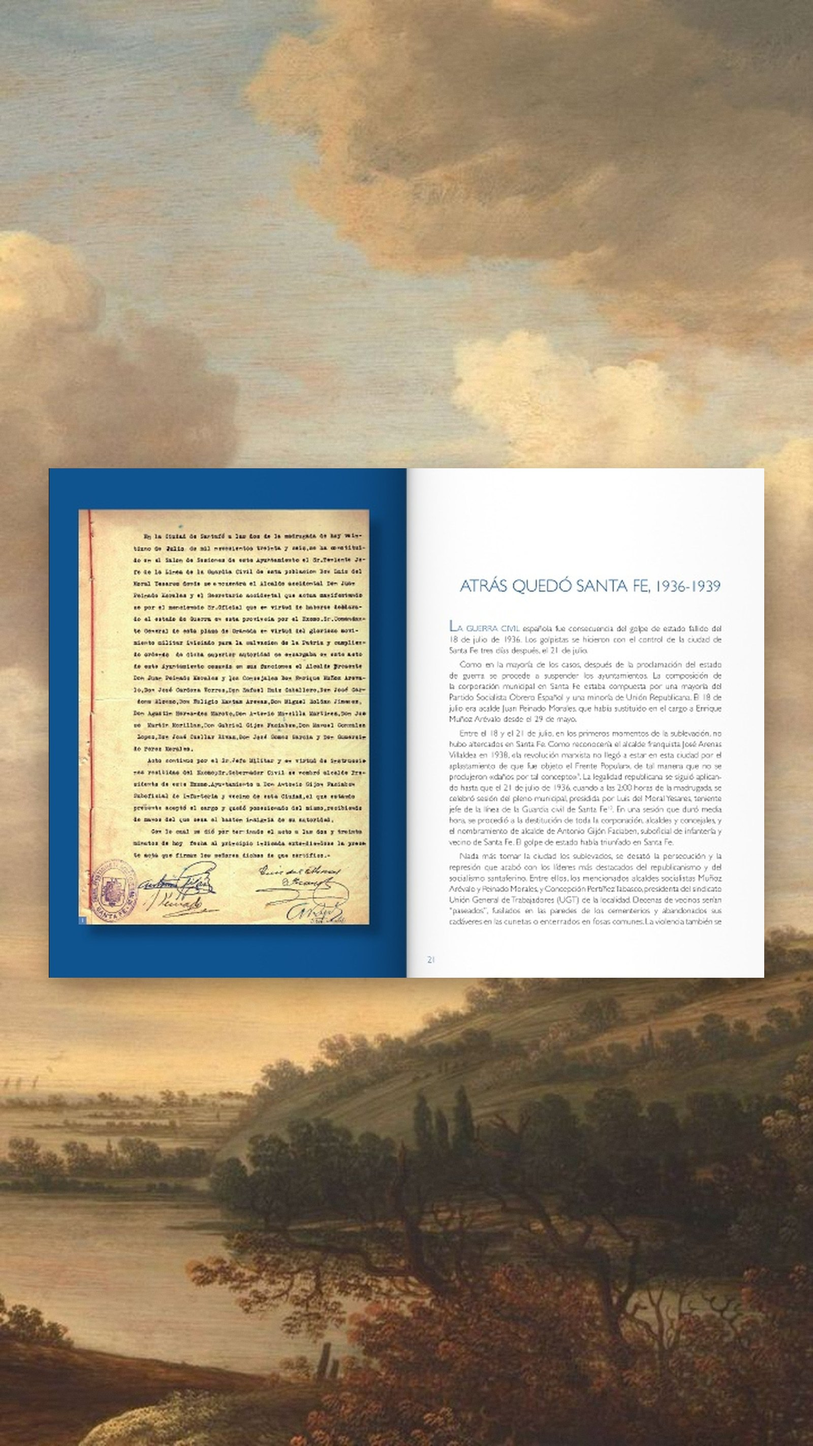
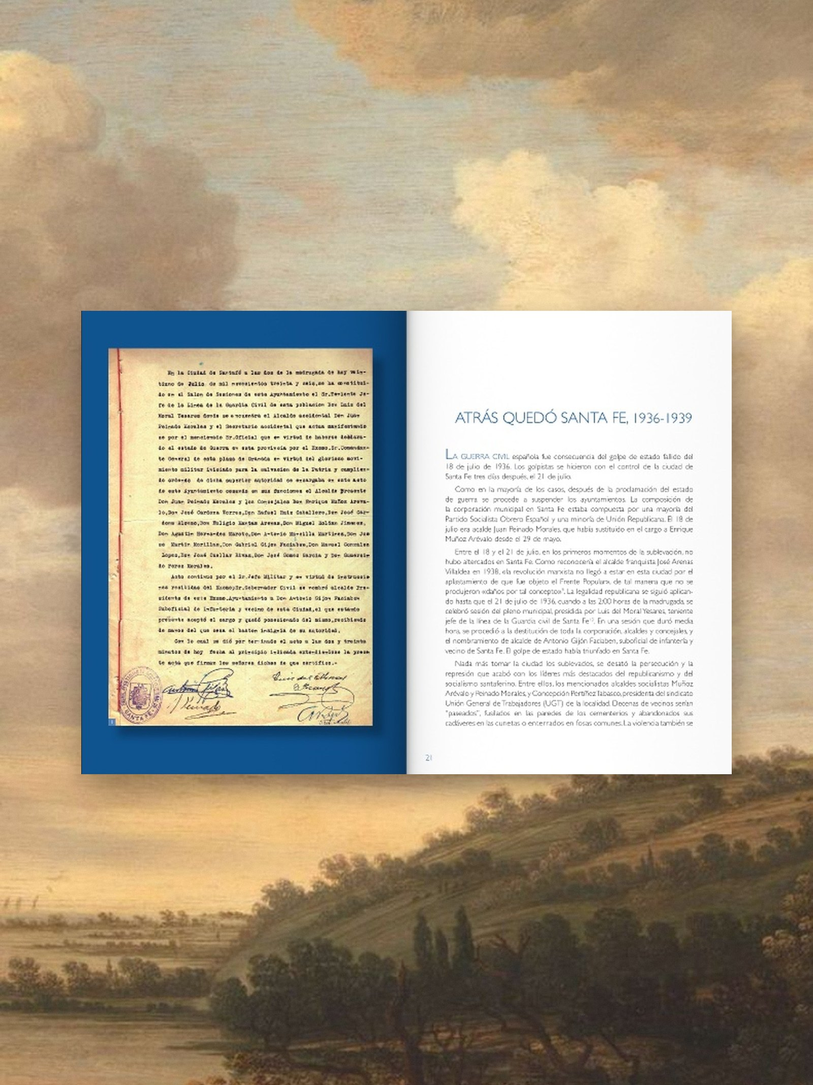
Catálogos en formato 3:4; Territorios con cuatro imágenes sueltas en horizontal
Claude-Session: https://claude.ai/code/session_014ZHEqD2MNxqjAg6cJYzQom

diff --git a/web/sitio/contenido.js b/web/sitio/contenido.js
@@ -129,7 +129,7 @@ window.CONTENIDO = {
         portada: "fotos/proyectos/02-territorios-de-la-mirada-portada.jpg",
         detalle: "fotos/proyectos/02-territorios-de-la-mirada-detalle.jpg",
         completa: "fotos/proyectos/02-territorios-de-la-mirada-completa.jpg",
-        escenas: ["fotos/proyectos/02-territorios-de-la-mirada-interior-1.jpg","fotos/proyectos/02-territorios-de-la-mirada-interior-2.jpg","fotos/proyectos/02-territorios-de-la-mirada-interior-3.jpg"],
+        escenas: ["fotos/proyectos/02-territorios-de-la-mirada-interior-1.jpg","fotos/proyectos/02-territorios-de-la-mirada-interior-2.jpg","fotos/proyectos/02-territorios-de-la-mirada-interior-3.jpg","fotos/proyectos/02-territorios-de-la-mirada-interior-4.jpg"],
       },
       {
         titulo: "Santa Fe—Mauthausen—Santa Fe",

diff --git a/web/scripts/territorios_fondos.py b/web/scripts/territorios_fondos.py
@@ -1,7 +1,6 @@
 """Territorios de la mirada: monta los interiores sobre los tres fondos del cliente.
 
-Composición, como en La Tortajada: fondo 1 con un doble suelto, fondo 2 con otro suelto y
-fondo 3 con dos dobles juntos. Los originales sobre negro están en
+Cada doble va suelto, en horizontal, sobre un fondo en formato 3:4 (el cuarto reutiliza el primero, volteado). Los originales sobre negro están en
 web/referencias-mockups/territorios-dobles/1..4.jpg.
 
 Uso: python3 web/scripts/territorios_fondos.py <fondo1> <fondo2> <fondo3>
@@ -25,15 +24,10 @@ def alto(sp):
 
 def main(fondos):
     b = [sf.fondo(f) for f in fondos]
-    sf.pon(b[0], doble(1), sf.H * .5)
-    sf.pon(b[1], doble(2), sf.H * .5)
-    a, c = doble(3), doble(4)
-    sep = 110
-    total = alto(a) + sep + alto(c)
-    sf.pon(b[2], a, sf.H / 2 - total / 2 + alto(a) / 2)
-    sf.pon(b[2], c, sf.H / 2 + total / 2 - alto(c) / 2)
-    for i, im in enumerate(b, 1):
-        im.save(sf.SITIO / f"02-territorios-de-la-mirada-interior-{i}.jpg", quality=86, optimize=True, progressive=True)
+    b.append(b[0].transpose(Image.FLIP_LEFT_RIGHT))  # el cuarto reutiliza el primer fondo, volteado
+    for i in range(4):
+        sf.pon(b[i], doble(i + 1), sf.H * .5)
+        b[i].save(sf.SITIO / f"02-territorios-de-la-mirada-interior-{i + 1}.jpg", quality=86, optimize=True, progressive=True)
 
 if __name__ == "__main__":
     main(sys.argv[1:4])

diff --git a/web/scripts/santa_fe_fondos.py b/web/scripts/santa_fe_fondos.py
@@ -11,8 +11,8 @@ from PIL import Image, ImageFilter, ImageChops
 
 SITIO = Path(__file__).resolve().parents[1] / "sitio" / "fotos" / "proyectos"
 ORIGEN = Path(__file__).resolve().parents[1] / "referencias-mockups" / "santa-fe-dobles"
-W, H = 1600, 2844
-ANCHO = .88
+W, H = 1600, 2133  # formato 3:4
+ANCHO = .80
 
 
 def doble(n):
